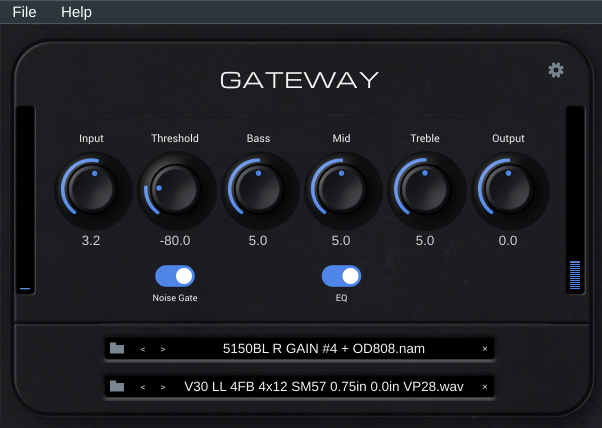
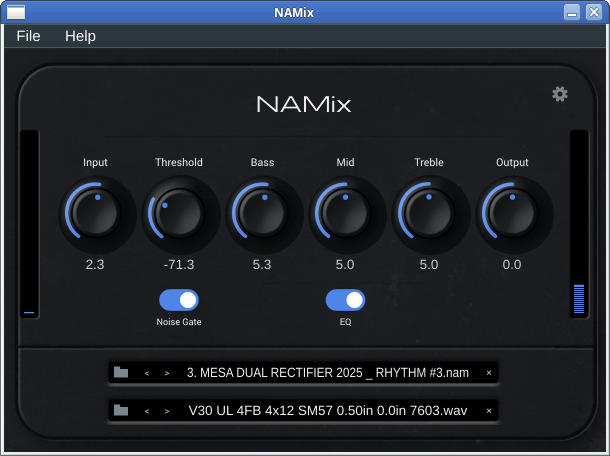
update screenshot and readme

diff --git a/README.md b/README.md
@@ -49,23 +49,23 @@ should build from source (see below).
 
 ## Installing the pre-built release
 
-Download `NAMix-0.3.0-linux-x86_64.tar.gz` from the
+Download `NAMix-0.4.0-linux-x86_64.tar.gz` from the
 [Releases page](https://github.com/rations/namix-linux/releases).
 
 Extract the archive:
 
 ```bash
-tar -xzf NAMix-0.3.0-linux-x86_64.tar.gz
+tar -xzf NAMix-0.4.0-linux-x86_64.tar.gz
 ```
 
-This creates a `NAMix-0.3.0/` directory containing both binaries. Install
+This creates a `NAMix-0.4.0/` directory containing both binaries. Install
 whichever you need:
 
 **VST3 plugin** — copy into your user VST3 folder:
 
 ```bash
 mkdir -p ~/.vst3
-cp -r NAMix-0.3.0/NAMix.vst3 ~/.vst3/
+cp -r NAMix-0.4.0/NAMix.vst3 ~/.vst3/
 ```
 
 The plugin will appear as **NAMix** in any VST3-capable DAW. No other
@@ -74,7 +74,7 @@ dependencies need to be installed.
 **Standalone application** — run directly from the extracted directory:
 
 ```bash
-./NAMix-0.3.0/NAMix
+./NAMix-0.4.0/NAMix
 ```
 
 On first launch, NAMix open audio settings
@@ -89,7 +89,7 @@ automatically when you close the window.
 To uninstall:
 
 ```bash
-rm -rf ~/.vst3/NAMix.vst3 ~/NAMix-0.3.0
+rm -rf ~/.vst3/NAMix.vst3 ~/NAMix-0.4.0
 ```
 
 ---